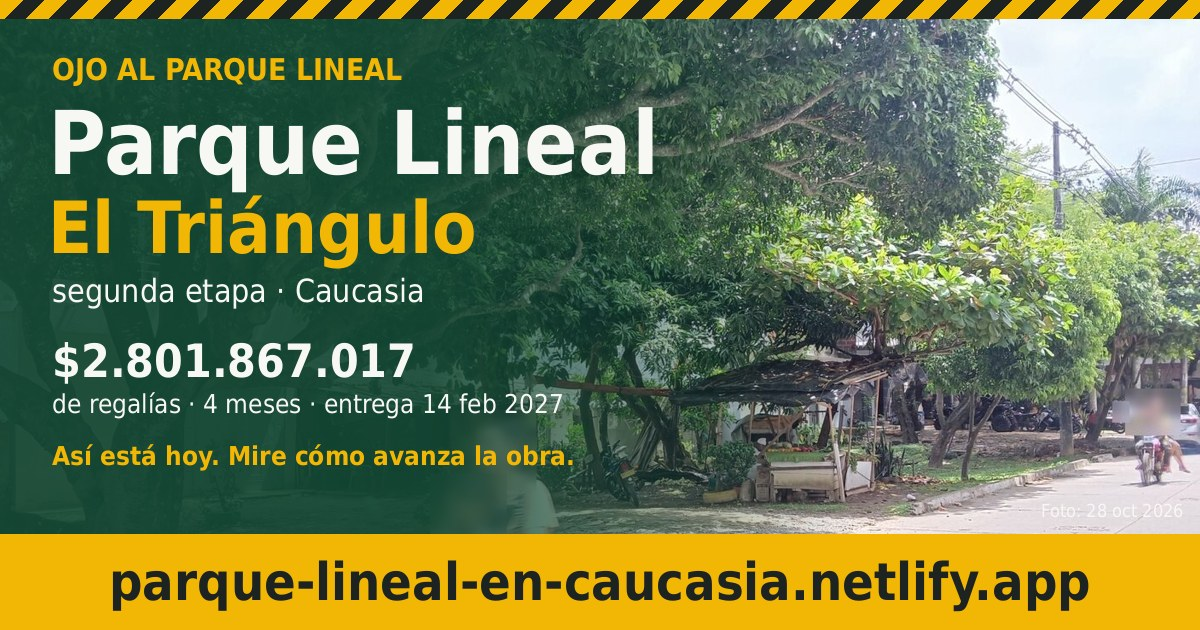
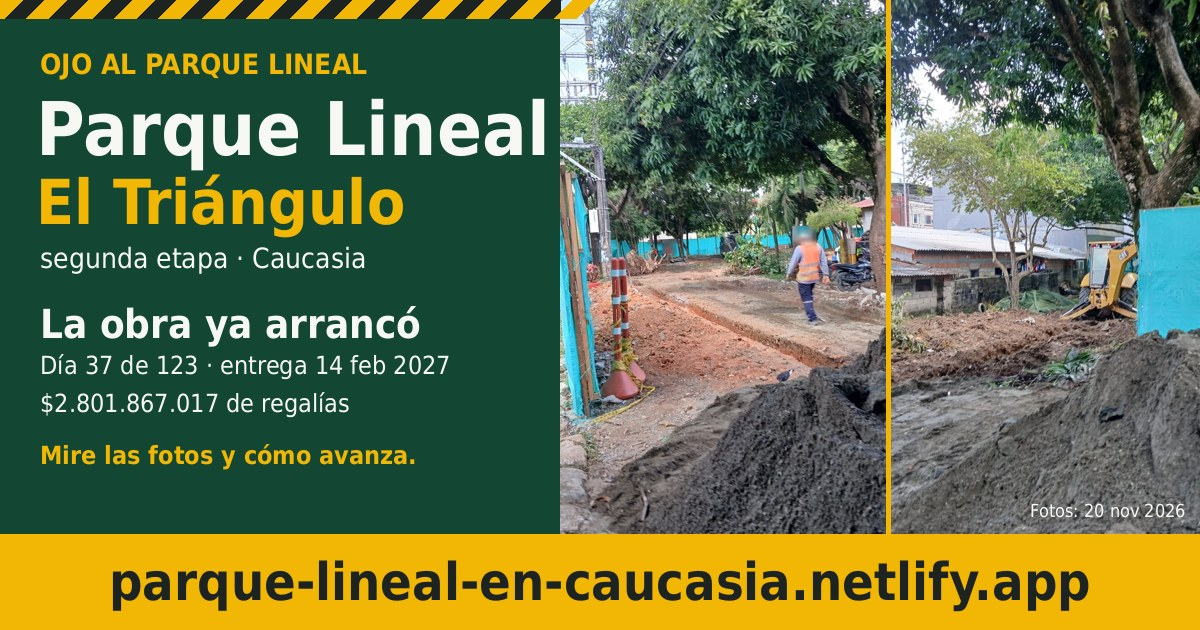
Fotos 20 nov 2026: la obra avanza (zanja, retroexcavadora, árboles cortados); pregunta por permiso de Corantioquia; nueva imagen del enlace y flyer
Claude-Session: https://claude.ai/code/session_01Qv96KXRgaQurxhh5WRNVvJ

diff --git a/index.html b/index.html
@@ -279,8 +279,8 @@ nav.tabs a.activo{color:#fff;border-top-color:var(--amarillo)}
 
   <!-- Fotos reales de la obra, tomadas por Vibras Positivas HM -->
   <div class="fotos-caucasia">
-    <figure class="f-grande"><img src="fotos/2026-11-08-1.jpg" alt="Cerramiento con polisombra verde y postes de madera en El Triángulo, Caucasia" loading="eager" style="object-position:50% 62%"><figcaption><b data-t="foto1">¡Ya empezaron las obras! Día 25 del plazo.</b> <span data-t="foto1b">Instalaron el cerramiento con polisombra y postes de madera.</span> Foto: Vibras Positivas HM, 8 nov 2026</figcaption></figure>
-    <figure><img src="fotos/2026-11-08-2.jpg" alt="Polisombra de la obra junto al andén de El Triángulo" loading="lazy" style="object-position:50% 45%"><figcaption><span data-t="foto2">La polisombra ya encierra el lote.</span> 8 nov 2026</figcaption></figure>
+    <figure class="f-grande"><img src="fotos/2026-11-20-1.jpg" alt="Trabajador con chaleco y zanja abierta dentro del cerramiento de la obra en El Triángulo, Caucasia" loading="eager" style="object-position:50% 55%"><figcaption><b data-t="foto1">La obra avanza: día 37 del plazo.</b> <span data-t="foto1b">Zanja abierta, conos, trabajadores con chaleco y un tronco de árbol arrancado al fondo.</span> Foto: Vibras Positivas HM, 20 nov 2026</figcaption></figure>
+    <figure><img src="fotos/2026-11-20-3.jpg" alt="Retroexcavadora trabajando dentro del lote de El Triángulo" loading="lazy" style="object-position:50% 58%"><figcaption><span data-t="foto2">Ya entró la retroexcavadora.</span> 20 nov 2026</figcaption></figure>
     <figure><img src="fotos/2026-10-28-1.jpg" alt="Árboles y lote de El Triángulo antes de la obra" loading="lazy"><figcaption><span data-t="foto3">Así estaba el 28 de octubre (día 14): sin obra.</span> 28 oct 2026</figcaption></figure>
   </div>
 
@@ -487,7 +487,7 @@ const T = {
   pDia:"If the money were spent evenly over the 123 days, each day of work is worth",
   hNoCuadra:"What doesn't add up", noCuadraBajada:"These are questions, not accusations. They come from reading the published documents; there may be addenda or clarifications on SECOP that answer them. That is what a right-of-petition request is for.",
   hOjo:"Watch the site", ojoBajada:"If you live in or pass through El Triángulo, this is what the contract requires at the site. Check what you see.",
-  videoNota:"The El Triángulo area on video (YouTube).", videoNota2:"Caucasia on video: YouTube playlist.", foto1:"Works have started! Day 25 of the term.", foto1b:"The site has been fenced off with green mesh and wooden posts.", foto2:"The green mesh now encloses the lot.", foto3:"How it looked on October 28 (day 14): no works.",
+  videoNota:"The El Triángulo area on video (YouTube).", videoNota2:"Caucasia on video: YouTube playlist.", foto1:"The works are moving: day 37 of the term.", foto1b:"An open trench, cones, workers in safety vests and an uprooted tree trunk in the back.", foto2:"The backhoe is now on site.", foto3:"How it looked on October 28 (day 14): no works.",
   hBitacora:"My site log", bitacoraBajada:"Write down what you saw, with a photo. It is saved on your phone and you can send it on WhatsApp.",
   bFecha:"Date", bQue:"What you saw", bNota:"Details", bNotaPh:"E.g.: 6 workers with helmets, old paving removed on the north side.", bFoto:"Photo (optional)", bGuardar:"Save to my log",
   hFotos:"Photos of the works", fotosBajada:"Taken at El Triángulo. We come back every week to compare progress.",
@@ -602,7 +602,8 @@ const PUNTOS = [
  {id:"ofertas", es:"Ofertas recibidas en la Invitación 077-2026, informe de evaluación, adendas y acto de adjudicación, y explicación de por qué el contrato se firmó el 14 de octubre si el cronograma fijaba la adjudicación para el 29 de octubre.", en:"Bids received, evaluation report, addenda and award, and why the contract was signed on October 14 when the schedule set the award for October 29."},
  {id:"anticipo", es:"Si ya se giró el anticipo, su valor, la fiducia o patrimonio autónomo donde se maneja y el plan de inversión aprobado por la interventoría.", en:"Whether the advance was paid, its amount, the trust that holds it and the approved investment plan."},
  {id:"aclara", es:"Aclaración del parágrafo de la cláusula primera y de la cláusula trigésima segunda del contrato, que hablan de pavimento y de la red vial terciaria, y de la forma de pago que suma 110%.", en:"Clarification of contract clauses that mention pavement and rural roads, and of the payment terms that add up to 110%."},
- {id:"informes", es:"Copia de los informes mensuales de interventoría y de la bitácora de obra.", en:"Copies of the monthly oversight reports and the site log."}
+ {id:"informes", es:"Copia de los informes mensuales de interventoría y de la bitácora de obra.", en:"Copies of the monthly oversight reports and the site log."},
+ {id:"arboles", es:"Permiso de aprovechamiento forestal expedido por Corantioquia para la tala o poda de árboles en la obra (el 20 de noviembre se vieron árboles cortados y un tronco arrancado), cuántos árboles se intervinieron y cuál es el plan de compensación con siembra de árboles nuevos.", en:"The tree-removal permit issued by Corantioquia (felled trees and an uprooted trunk were seen on November 20), how many trees were affected and the replanting plan."}
 ];
 
 /* ===== Estado ===== */

diff --git a/sw.js b/sw.js
@@ -1,5 +1,5 @@
 // Primero la red (para que siempre salga lo último); si no hay internet, lo guardado.
-const CACHE = "parque-lineal-v2";
+const CACHE = "parque-lineal-v3";
 const BASE = ["./", "index.html", "manifest.json", "icon-192.png", "img/contrato.jpg", "img/acta-inicio.jpg", "img/invitacion-cronograma.jpg", "img/poliza-cumplimiento.jpg"];
 
 self.addEventListener("install", e => { e.waitUntil(caches.open(CACHE).then(c => c.addAll(BASE)).then(() => self.skipWaiting())); });
